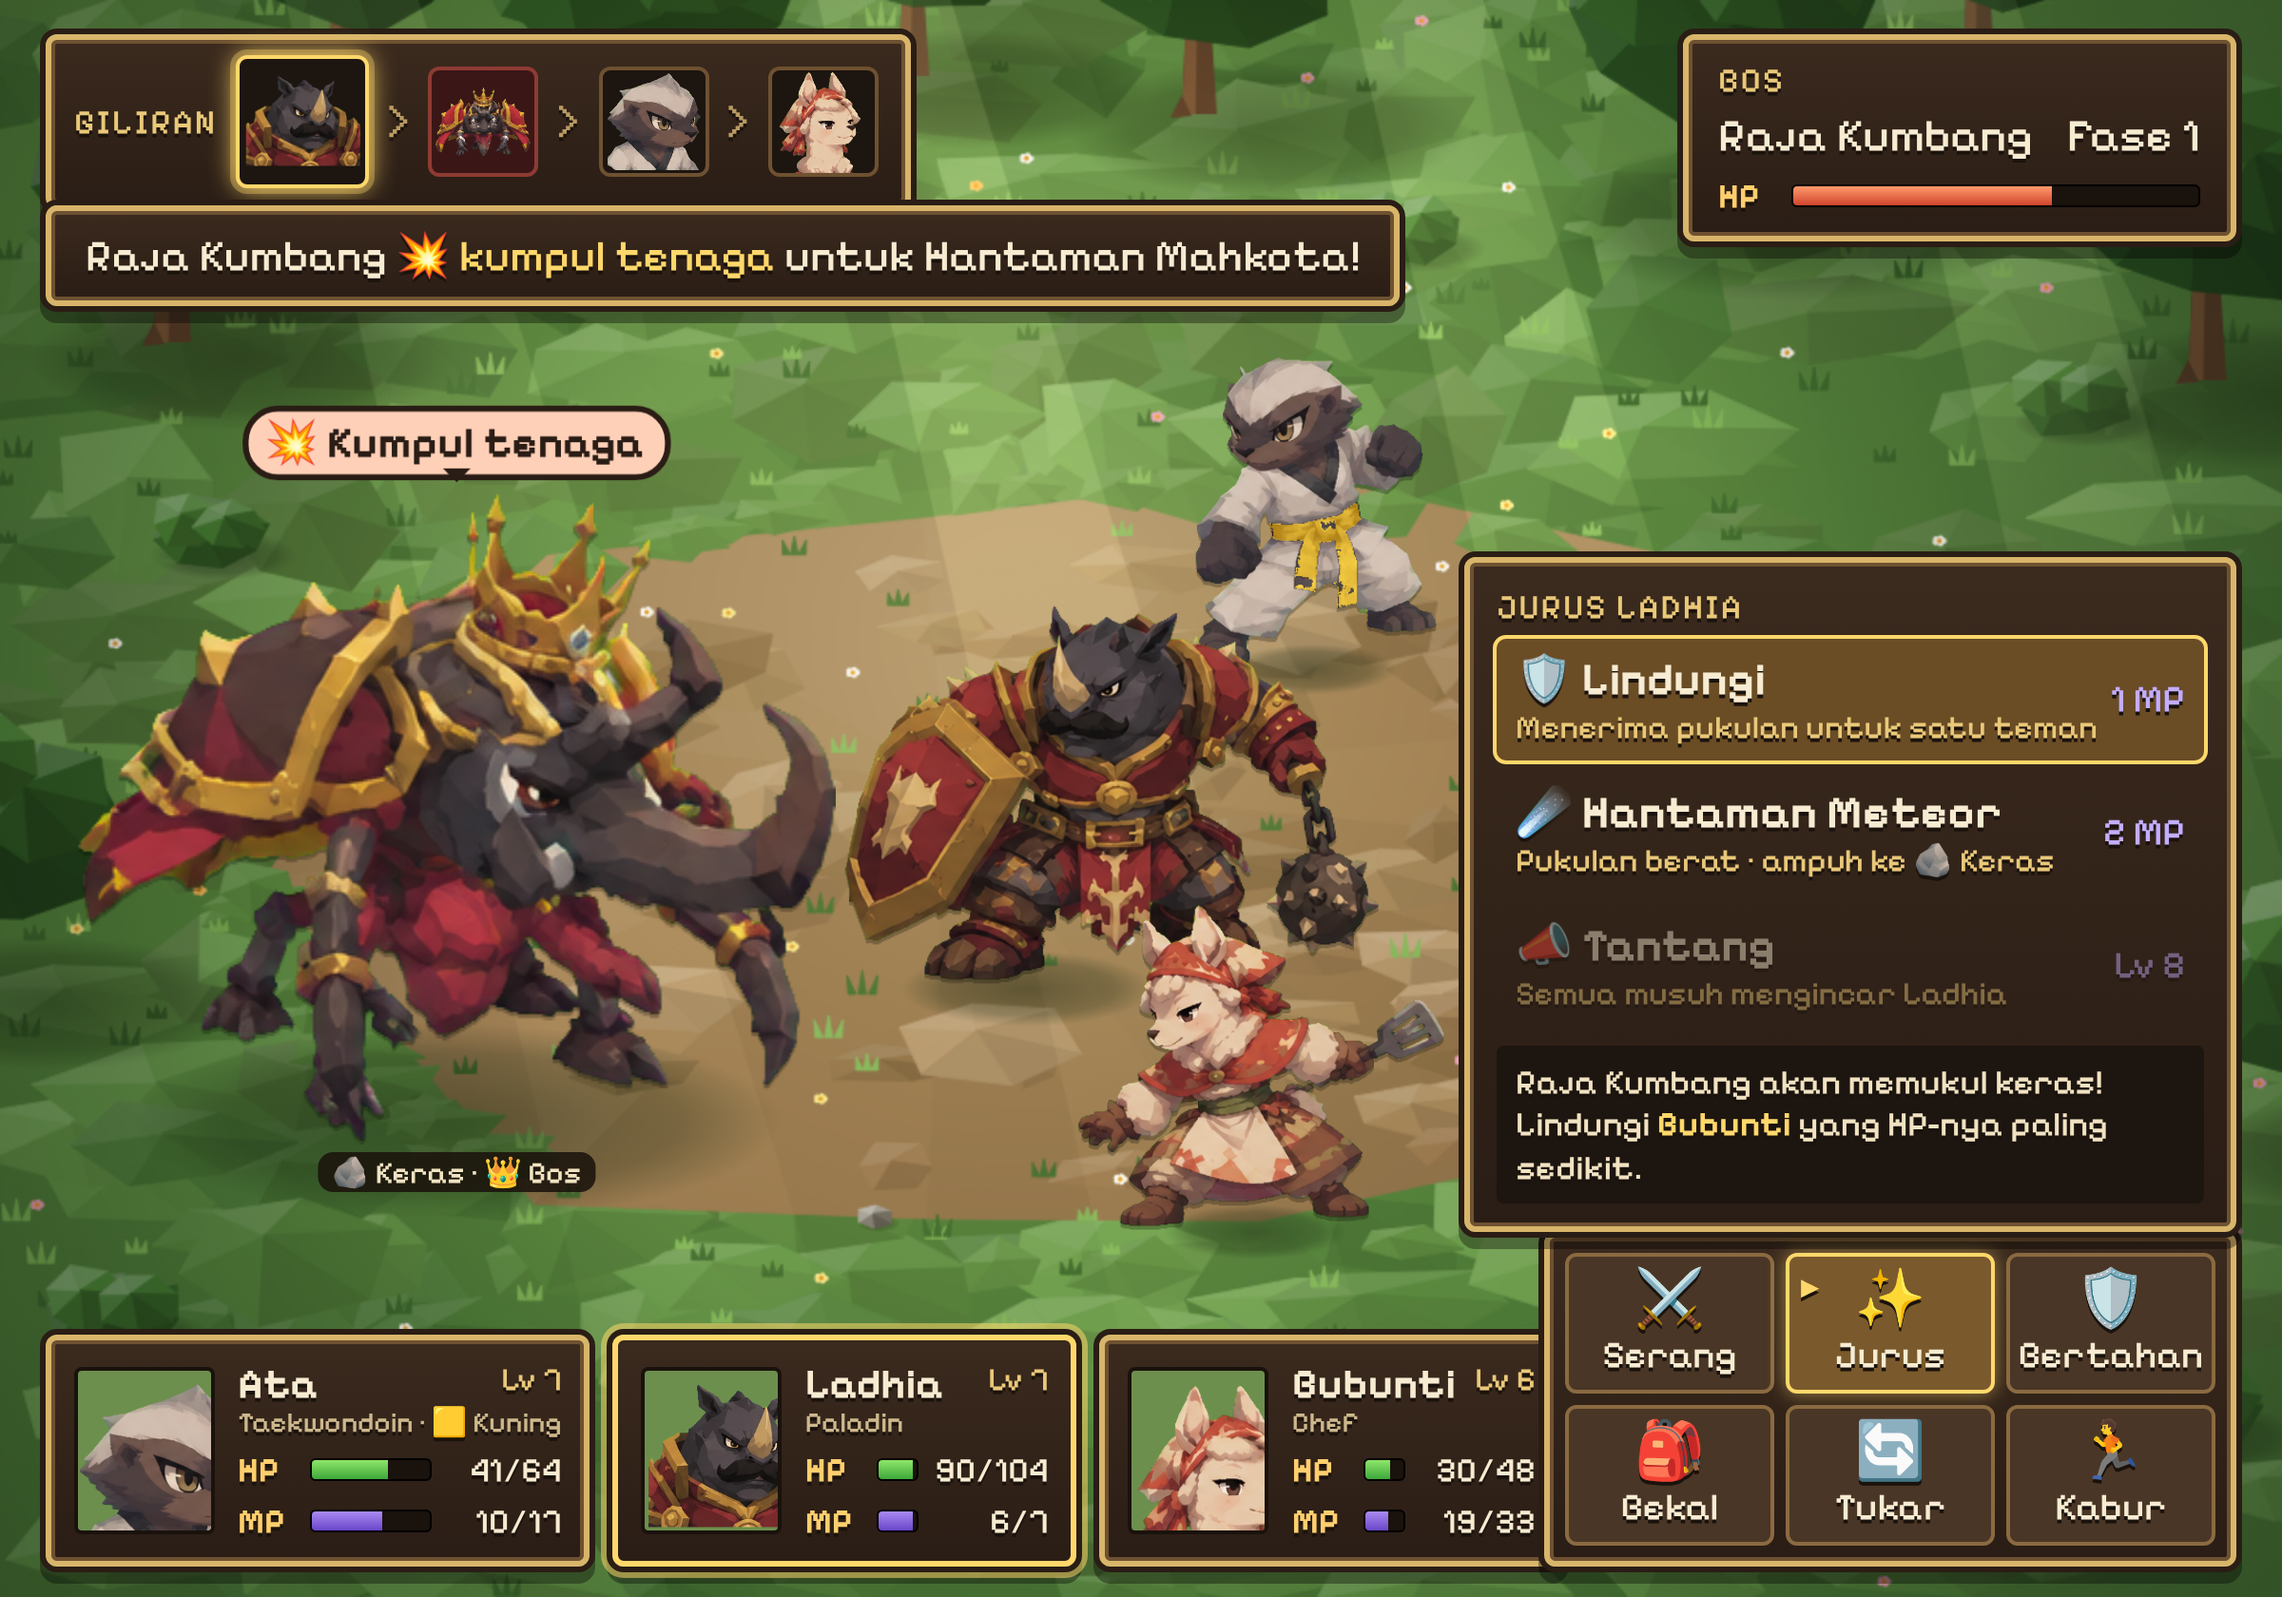
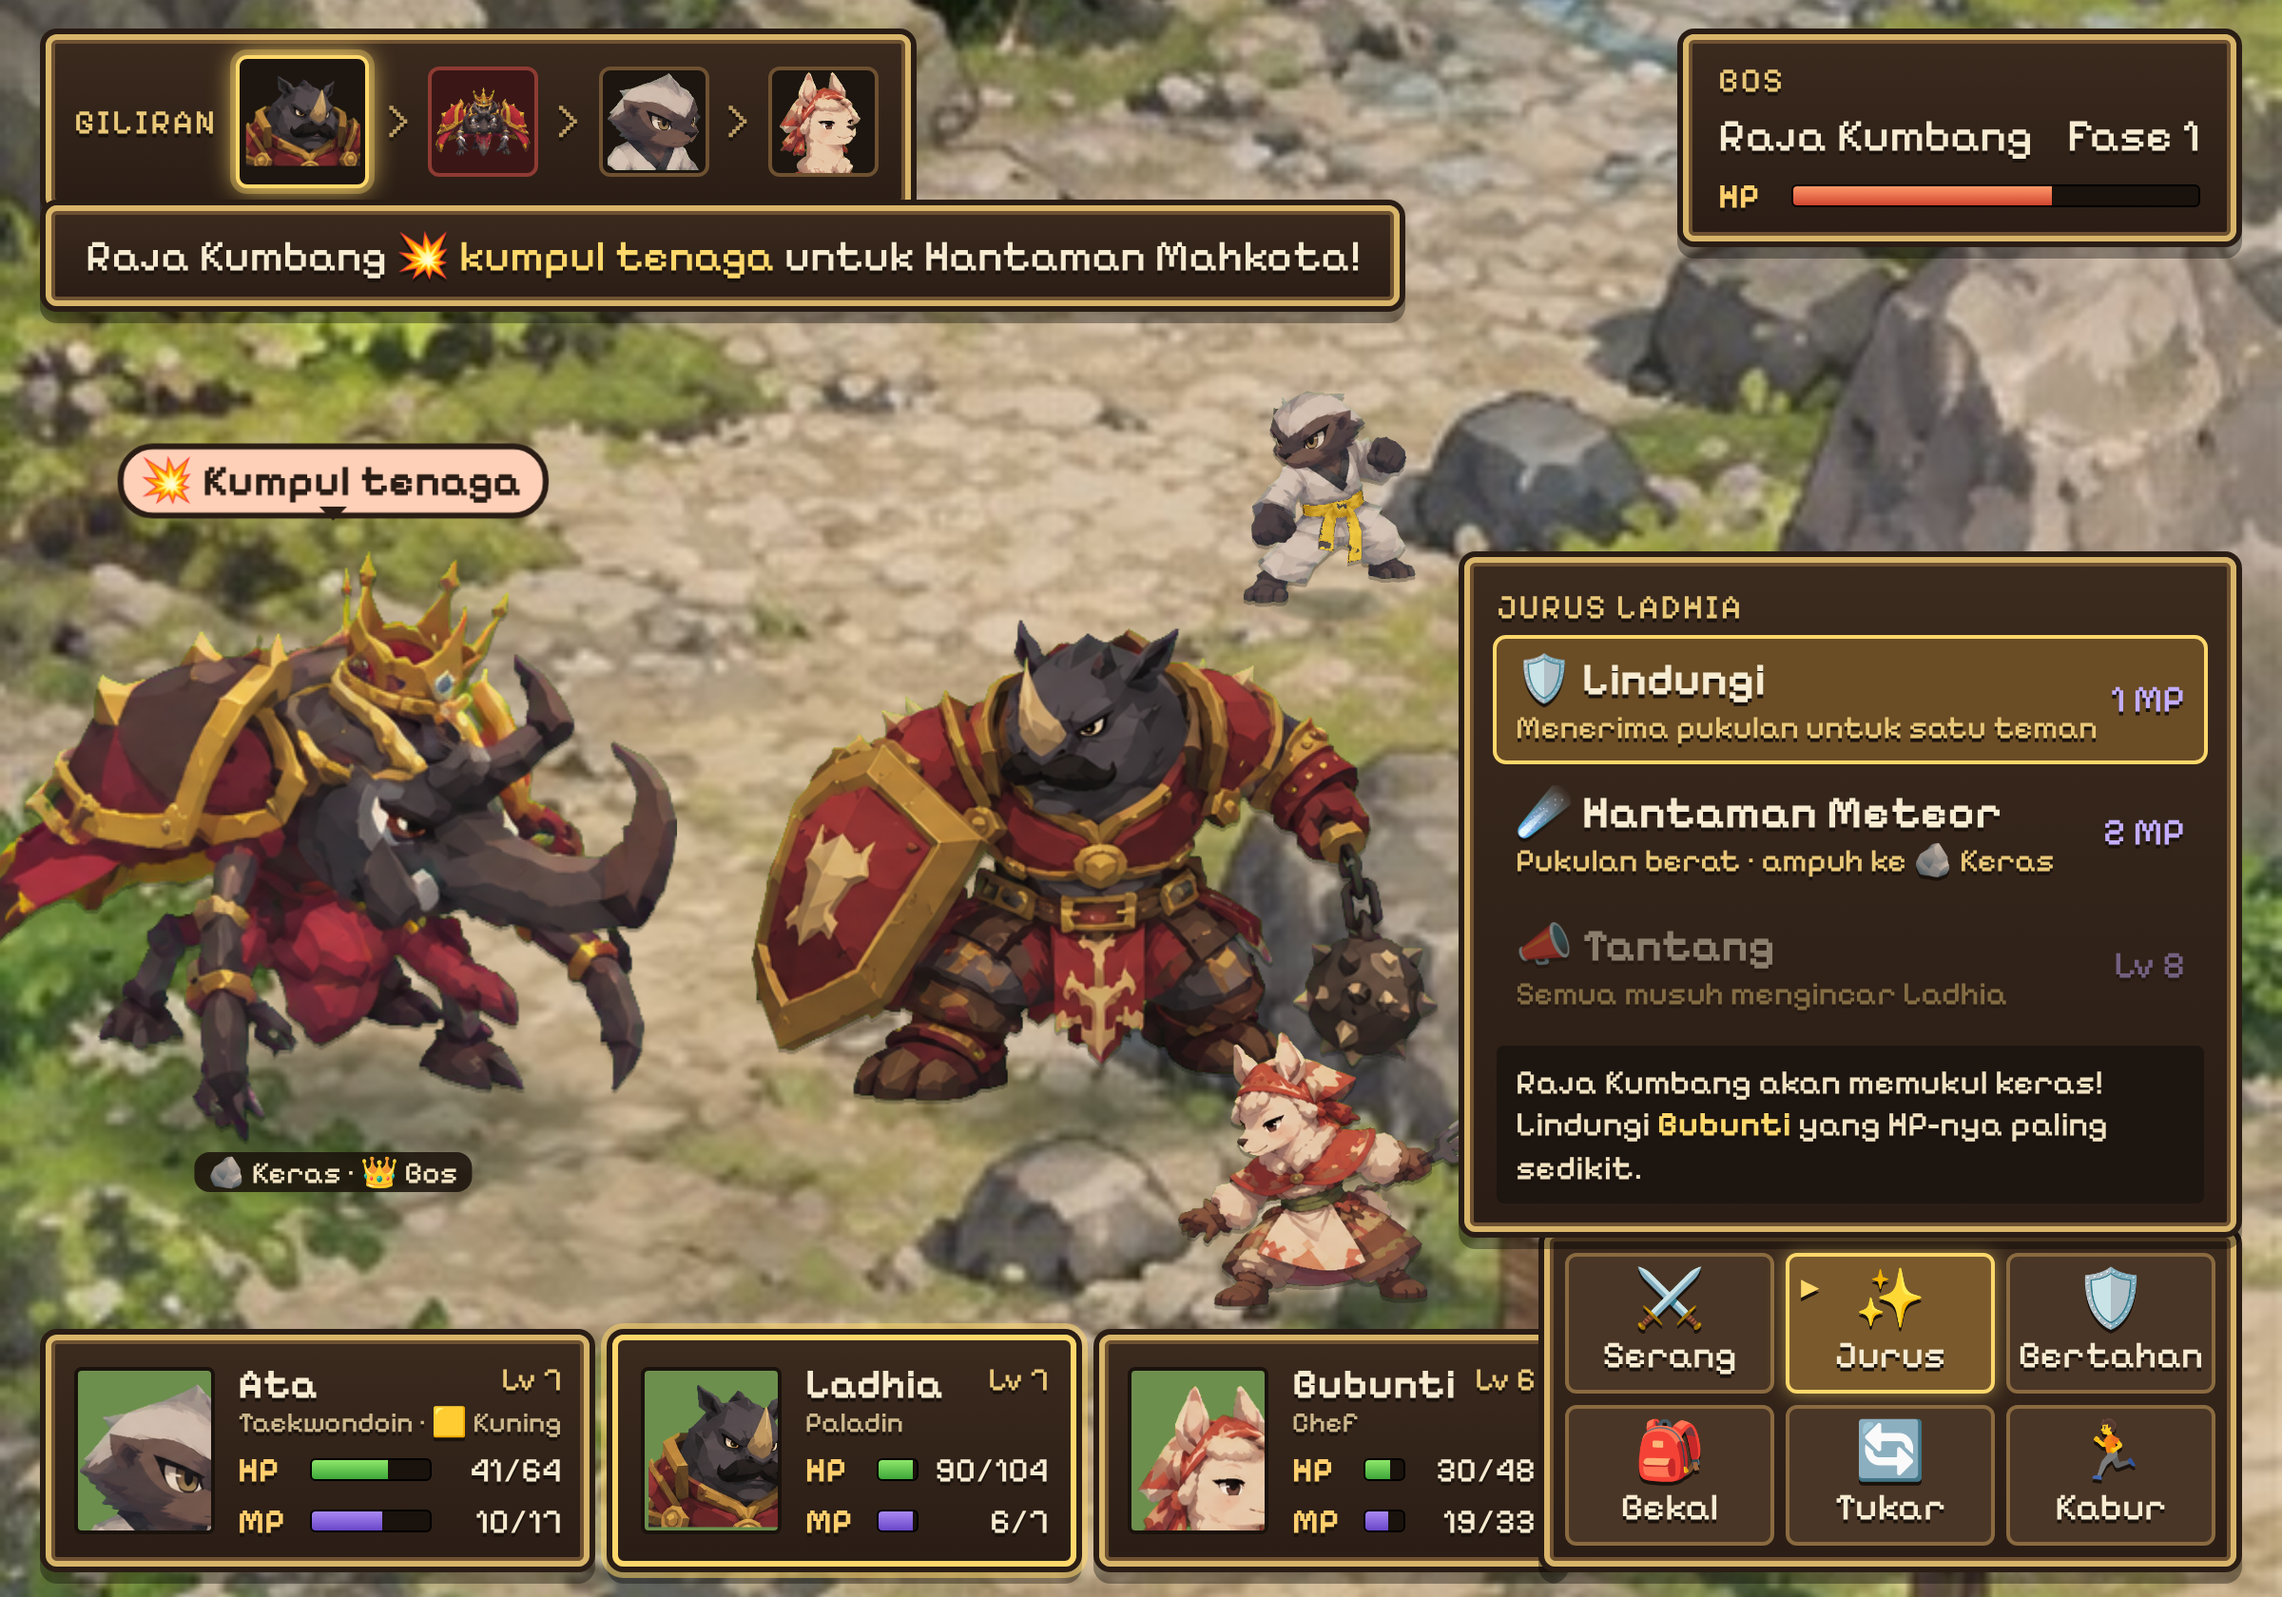
Mockup: latar battle dari pengguna, ukuran & jarak tokoh disesuaikan
Claude-Session: https://claude.ai/code/session_012A5oLvFsQThBvFkQXBRdxZ

diff --git a/pohon-madu/mockup/index.html b/pohon-madu/mockup/index.html
@@ -112,7 +112,12 @@ const BELT_AREA = {   // kotak area sabuk per pose (koordinat gambar)
   kanan: [[57, 165, 178, 236]], depan: [[55, 165, 152, 258]],
 };
 const IMG = {};
-function load(n) { return new Promise(r => { const i = new Image(); i.onload = () => { IMG[n] = i; r(); }; i.src = '../img/' + (n.includes('/') ? n : 'ata/' + n) + '.png'; }); }
+function load(n) { return new Promise(r => { const i = new Image(); i.onload = () => { IMG[n] = i; r(); }; i.src = '../img/' + (n.includes('/') ? n : 'ata/' + n) + (n.endsWith('.jpg') ? '' : '.png'); }); }
+// latar dari pengguna: buang label di atas, lalu isi penuh layar (cover)
+function bg(n, fy = 0.5, top = 58) {
+  const im = IMG['latar/' + n + '.jpg'], w = im.width, h = w * 840 / 1200, y = top + (im.height - top - h) * fy;
+  g.imageSmoothingQuality = 'high'; g.drawImage(im, 0, y, w, h, 0, 0, 1200, 840);
+}
 function hex(h) { return [1, 3, 5].map(i => parseInt(h.substr(i, 2), 16)); }
 function ata(pose, belt) {
   const im = IMG[pose], c = document.createElement('canvas'); c.width = im.width; c.height = im.height;
@@ -151,22 +156,23 @@ function partyCards(now, mp) {
 }
 
 function battleBase(hit) {
-  LP.battle(g, 1200, 840);
+  bg('hutan-pinggir', 0.55);
   // musuh (kiri, menghadap kanan)
-  shadow(150, 412, 82); char('musuh/kumbang-2', 150, 420, 118);
-  shadow(225, 592, 82); char('musuh/kumbang-2', 225, 600, 118);
-  const tw = hit ? [380, 380] : [345, 405];
+  shadow(140, 412, 82); char('musuh/kumbang-2', 140, 420, 118);
+  shadow(190, 602, 82); char('musuh/kumbang-2', 190, 610, 118);
+  const tw = hit ? [340, 370] : [300, 380];
   shadow(tw[0], tw[1], 44); char('musuh/tawon-4', tw[0], tw[1] - 62, 140);
   // tim (kanan, menghadap kiri)
-  const lx = hit ? 640 : 500, ly = hit ? 585 : 505;
-  if (hit) { shadow(578, 433, 50); img(ata('tendang', BELT_NOW), 422, 433 - 178, 178, 'flip'); }
-  shadow(lx, ly, 66); img(IMG['ladhia/siaga'].src, lx - 100, ly - 205, 205, 'flip');
-  if (!hit) { shadow(645, 368, 44); img(ata('siaga', BELT_NOW), 645 - 68, 368 - 165, 165, 'flip'); }
-  const bx = hit ? 790 : 640; shadow(bx, 648, 48); img(IMG['bubunti/siaga'].src, bx - 95, 648 - 175, 175, 'flip');
-  ui('💥 Kumpul tenaga', 'intent big', at(155, 308));
-  ui('⚔', 'intent', at(230, 489));
+  // ukuran: Bubunti 150, Ata = 3/4 Bubunti, Ladhia besar
+  if (hit) { shadow(482, 338, 40); img(ata('tendang', BELT_NOW), 400, 338 - 122, 122, 'flip'); }
+  else { shadow(700, 318, 34); img(ata('siaga', BELT_NOW), 700 - 47, 318 - 113, 113, 'flip'); }
+  const lx = hit ? 570 : 505, ly = hit ? 615 : 565;
+  shadow(lx, ly, 96); img(IMG['ladhia/siaga'].src, lx - 186, ly - 264, 264, 'flip');
+  const bx = hit ? 840 : 715, by = hit ? 520 : 690; shadow(bx, by, 44); img(IMG['bubunti/siaga'].src, bx - 82, by - 150, 150, 'flip');
+  ui('💥 Kumpul tenaga', 'intent big', at(145, 308));
+  ui('⚔', 'intent', at(195, 499));
   if (!hit) ui('⚔', 'intent', at(tw[0] + 100, tw[1] - 120));
-  ui('🪨 Keras', 'tipe', at(150, 422)); ui('🪨 Keras', 'tipe', at(225, 602)); if (!hit) ui('🪶 Lincah', 'tipe', at(tw[0], tw[1] + 12));
+  ui('🪨 Keras', 'tipe', at(140, 422)); ui('🪨 Keras', 'tipe', at(190, 612)); if (!hit) ui('🪶 Lincah', 'tipe', at(tw[0], tw[1] + 12));
   const faces = { a: ata('wajah'), k: IMG['musuh/kumbang-1'].src, t: IMG['musuh/tawon-1'].src, l: IMG['ladhia/wajah'].src, b: IMG['bubunti/wajah'].src };
   const order = hit ? [['k', 'now'], ['b'], ['l'], ['k'], ['t', '', '⬇']] : [['a', 'now'], ['t'], ['b'], ['k'], ['l'], ['k']];
   ui('<span class="lbl">GILIRAN</span>' + order.map(([k, c, mv], i) =>
@@ -174,7 +180,7 @@ function battleBase(hit) {
   ui('<div class="lbl">MUSUH</div><div class="row"><span>Tawon Nakal</span><span>×1</span></div><div class="row"><span>Kumbang Batu</span><span>×2</span></div>', 'box', {}).id = 'foes';
 }
 
-Promise.all(['siaga', 'tendang', 'kanan', 'depan', 'wajah', 'ladhia/siaga', 'ladhia/wajah', 'ladhia/kanan', 'bubunti/siaga', 'bubunti/wajah', 'bubunti/kanan', 'musuh/kumbang-1', 'musuh/kumbang-2', 'musuh/tawon-1', 'musuh/tawon-4', 'musuh/raja-kumbang-2', 'musuh/raja-kumbang-1', 'ladhia/bertahan'].map(load)).then(() => {
+Promise.all(['siaga', 'tendang', 'kanan', 'depan', 'wajah', 'ladhia/siaga', 'ladhia/wajah', 'ladhia/kanan', 'bubunti/siaga', 'bubunti/wajah', 'bubunti/kanan', 'musuh/kumbang-1', 'musuh/kumbang-2', 'musuh/tawon-1', 'musuh/tawon-4', 'musuh/raja-kumbang-2', 'musuh/raja-kumbang-1', 'ladhia/bertahan', 'latar/hutan-pinggir.jpg', 'latar/lembah-kerikil.jpg', 'latar/rawa-kabut.jpg'].map(load)).then(() => {
 if (q === 'pilih') {
   battleBase(false);
   partyCards(true, 12);
@@ -190,34 +196,34 @@ if (q === 'pilih') {
   partyCards(false, 9);
   const c2 = document.createElement('canvas'); c2.width = 1200; c2.height = 840; c2.style.pointerEvents = 'none'; stage.appendChild(c2);
   const h = c2.getContext('2d'); h.strokeStyle = '#fff6d6'; h.lineWidth = 5; h.globalAlpha = .85;
-  for (let i = 0; i < 3; i++) { h.beginPath(); h.arc(490, 320, 50 + i * 16, Math.PI * 0.78, Math.PI * 1.22); h.stroke(); }
-  h.globalAlpha = 1; h.fillStyle = '#fff3b0'; h.beginPath(); h.arc(430, 282, 24, 0, 7); h.fill(); h.fillStyle = '#fff'; h.beginPath(); h.arc(430, 282, 13, 0, 7); h.fill();
-  ui('24<small>AMPUH!</small>', 'dmg', at(232, 180));
+  for (let i = 0; i < 3; i++) { h.beginPath(); h.arc(450, 262, 34 + i * 12, Math.PI * 0.78, Math.PI * 1.22); h.stroke(); }
+  h.globalAlpha = 1; h.fillStyle = '#fff3b0'; h.beginPath(); h.arc(404, 236, 20, 0, 7); h.fill(); h.fillStyle = '#fff'; h.beginPath(); h.arc(404, 236, 11, 0, 7); h.fill();
+  ui('24<small>AMPUH!</small>', 'dmg', at(545, 200));
   ui('Ata: <em>Tendangan Samping!</em> &nbsp;Tawon Nakal terdorong ke belakang antrean ⬇', 'box', {}).id = 'msg';
 } else if (q === 'jelajah') {
-  LP.jelajah(g, 1200, 840);
-  shadow(965, 330, 62); char('musuh/kumbang-2', 965, 338, 92);
-  shadow(335, 625, 36); img(IMG['bubunti/kanan'].src, 335 - 42, 625 - 150, 150);
-  shadow(475, 583, 46); img(IMG['ladhia/kanan'].src, 475 - 62, 583 - 170, 170);
-  shadow(640, 492, 36); img(ata('kanan', BELT_NOW), 640 - 46, 492 - 150, 150);
-  const mx = 400, my = 700;
+  bg('hutan-pinggir', 0.55);
+  shadow(735, 215, 58); char('musuh/kumbang-2', 735, 222, 88);
+  shadow(455, 725, 40); img(IMG['bubunti/kanan'].src, 455 - 38, 725 - 140, 140);
+  shadow(565, 575, 58); img(IMG['ladhia/kanan'].src, 565 - 76, 575 - 238, 238);
+  shadow(705, 330, 28); img(ata('kanan', BELT_NOW), 705 - 31, 330 - 105, 105);
+  const mx = 330, my = 600;
   LP.softShadow(g, mx, my + 12, 16, 5); LP.facet(g, mx, my, 13, 12, '#d0912e', { n: 8, k: .35 }); LP.facet(g, mx - 2, my - 13, 9, 4, '#7a5538', { n: 6 });
   g.fillStyle = '#fff'; [[mx + 20, my - 16], [mx - 20, my - 8], [mx + 16, my + 8]].forEach(([x, y]) => { g.fillRect(x - 1, y - 5, 2, 10); g.fillRect(x - 5, y - 1, 10, 2); });
   ui('Hutan Pinggir<small>Bab 2 · Menuju Desa Embun</small>', 'box', {}).id = 'area';
   ui('<span>🪙 35</span><span>🍯 3</span>', 'box', {}).id = 'dompet';
   ui('👥 Tim', 'box', {}).id = 'btnTim';
-  ui('🪨 Kumbang Batu · <b style="color:#ffd86b">Lv 2</b>', 'box tag', at(965, 230));
-  ui('Dekati dari belakang = <b style="color:#ffd86b">Serangan Kejutan!</b>', 'box tag', at(930, 420));
+  ui('🪨 Kumbang Batu · <b style="color:#ffd86b">Lv 2</b>', 'box tag', at(735, 120));
+  ui('Dekati dari belakang = <b style="color:#ffd86b">Serangan Kejutan!</b>', 'box tag', at(940, 250));
   ui('', '', {}).id = 'stick';
   ui('A', '', {}).id = 'btnA';
 } else if (q === 'bos') {
-  LP.battle(g, 1200, 840);
-  shadow(240, 590, 170); char('musuh/raja-kumbang-2', 240, 600, 340, true);
-  shadow(690, 352, 44); img(ata('siaga', BELT_NOW), 690 - 68, 352 - 165, 165, 'flip');
-  shadow(540, 520, 66); img(IMG['ladhia/siaga'].src, 540 - 100, 520 - 205, 205, 'flip');
-  shadow(660, 648, 48); img(IMG['bubunti/siaga'].src, 660 - 95, 648 - 175, 175, 'flip');
-  ui('💥 Kumpul tenaga', 'intent big', at(240, 252));
-  ui('🪨 Keras · 👑 Bos', 'tipe', at(240, 606));
+  bg('lembah-kerikil', 0.6);
+  shadow(175, 590, 160); char('musuh/raja-kumbang-2', 175, 600, 310, true);
+  shadow(700, 318, 34); img(ata('siaga', BELT_NOW), 700 - 47, 318 - 113, 113, 'flip');
+  shadow(575, 585, 96); img(IMG['ladhia/siaga'].src, 575 - 186, 585 - 264, 264, 'flip');
+  shadow(700, 690, 44); img(IMG['bubunti/siaga'].src, 700 - 82, 690 - 150, 150, 'flip');
+  ui('💥 Kumpul tenaga', 'intent big', at(175, 272));
+  ui('🪨 Keras · 👑 Bos', 'tipe', at(175, 606));
   const faces = { a: ata('wajah'), r: IMG['musuh/raja-kumbang-1'].src, l: IMG['ladhia/wajah'].src, b: IMG['bubunti/wajah'].src };
   ui('<span class="lbl">GILIRAN</span>' + [['l', 'now'], ['r'], ['a'], ['b']].map(([k, c], i) =>
     (i ? '<span class="arrow">›</span>' : '') + `<div class="face ${c || ''} ${k === 'r' ? 'foe' : ''}"><img src="${faces[k]}" style="image-rendering:auto">`+'</div>').join(''), 'box', {}).id = 'turn';

diff --git a/pohon-madu/ASET.md b/pohon-madu/ASET.md
@@ -60,13 +60,13 @@ Prioritas: ⭐ = dibutuhkan dulu (Prolog, Bab 1, Bab 2). Sisanya menyusul per ba
 
 | Prioritas | Latar | Dipakai di |
 |---|---|---|
-| ⭐ | Hutan Pinggir (rumput, tanah lapang, pohon di tepi) | Prolog |
-| ⭐ | Halaman Dojo (lantai kayu/tikar, untuk latihan & ujian sabuk) | Prolog, tiap naik sabuk |
-| ⭐ | Lembah Kerikil (tanah berbatu, tebing rendah) | Bab 1 |
-| ⭐ | Jembatan Batu (di atas jembatan, sungai di bawah) | Bab 1 (duel Ladhia) |
-| ⭐ | Tambang Tua (gua bertiang kayu, lentera, rel kecil) | Bab 1 |
-| ⭐ | Rawa Kabut (air dangkal, akar bakau, kabut) | Bab 2 |
-| ⭐ | Gua Embun (gua biru berembun, kristal, mata air) | Bab 2 |
+| ⭐✅ | Hutan Pinggir (rumput, tanah lapang, pohon di tepi) | Prolog |
+| ⭐✅ | Halaman Dojo (lantai kayu/tikar, untuk latihan & ujian sabuk) | Prolog, tiap naik sabuk |
+| ⭐✅ | Lembah Kerikil (tanah berbatu, tebing rendah) | Bab 1 |
+| ⭐✅ | Jembatan Batu (di atas jembatan, sungai di bawah) | Bab 1 (duel Ladhia) |
+| ⭐✅ | Tambang Tua (gua bertiang kayu, lentera, rel kecil) | Bab 1 |
+| ⭐✅ | Rawa Kabut (air dangkal, akar bakau, kabut) | Bab 2 |
+| ⭐✅ | Gua Embun (gua biru berembun, kristal, mata air) | Bab 2 |
 | | Hutan Kenari (pohon kenari, sarang tawon) | Bab 3 |
 | | Pasar Burung (gang pasar, tenda warna-warni, festival) | Bab 4 |
 | | Tepi Danau Sunyi / Pulau | Bab 5 |

diff --git a/pohon-madu/DESAIN.md b/pohon-madu/DESAIN.md
@@ -4,6 +4,8 @@
 > Judul game & nama folder (`pohon-madu/`) masih sementara.
 > Sprite Ata dari pengguna (latar hijau) → dipotong ke `pohon-madu/img/ata/*.png`. Mockup: `pohon-madu/mockup/?s=pilih|serang|jelajah|sabuk`.
 > Gaya visual: **low-poly lembut** menyamai sprite tokoh (bukan pixel), sudut pandang miring dari atas, kamera agak jauh.
+> Ukuran tokoh (disepakati): Bubunti = patokan, **Ata = ¾ Bubunti**, **Ladhia ±1,75× Bubunti** (1,5× dari mockup awal); tokoh diberi jarak, tidak bertumpuk.
+> Latar battle dari pengguna (gaya lukisan pixel) → `img/latar/*.jpg` (label di atas dibuang saat digambar).
 > Sprite tokoh dari pengguna (latar hijau → `img/ata`, `img/ladhia`, `img/bubunti`); musuh & latar digambar dengan kode (`mockup/lowpoly.js`).
 
 Game keenam. **Turn-based RPG** (genre seperti Dragon Quest), murni untuk **melatih strategi** anak 6 tahun.
